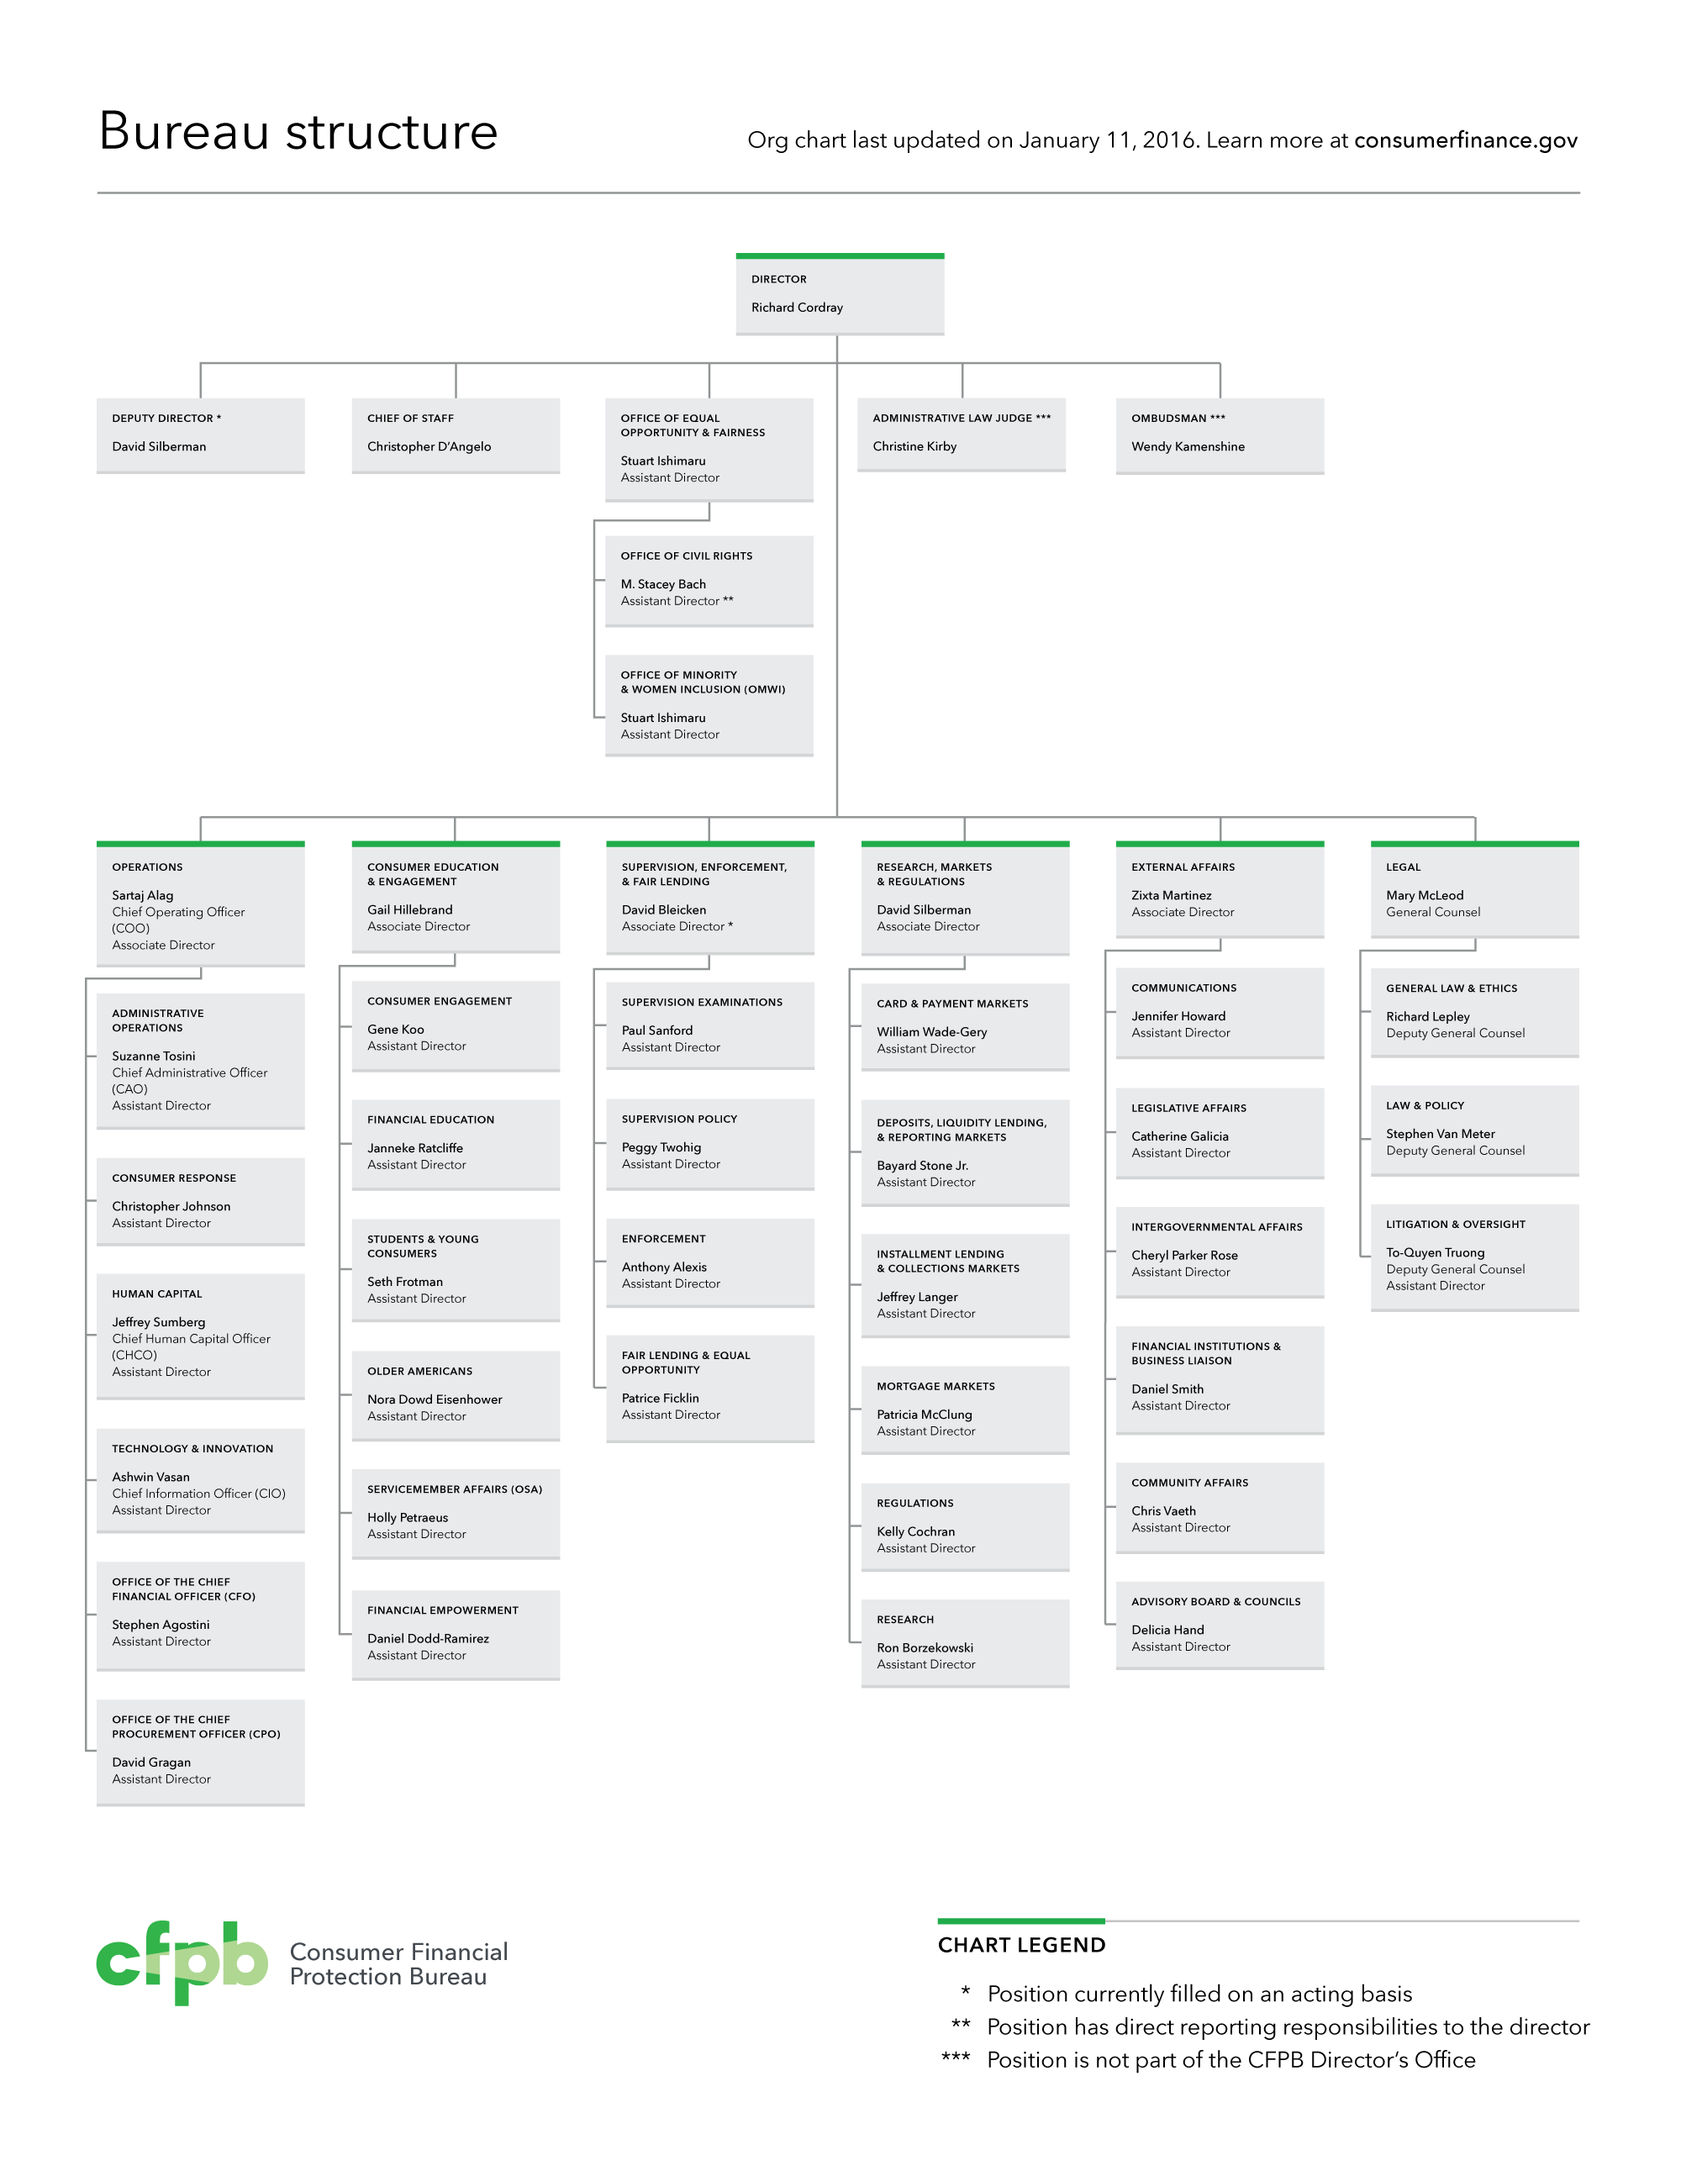
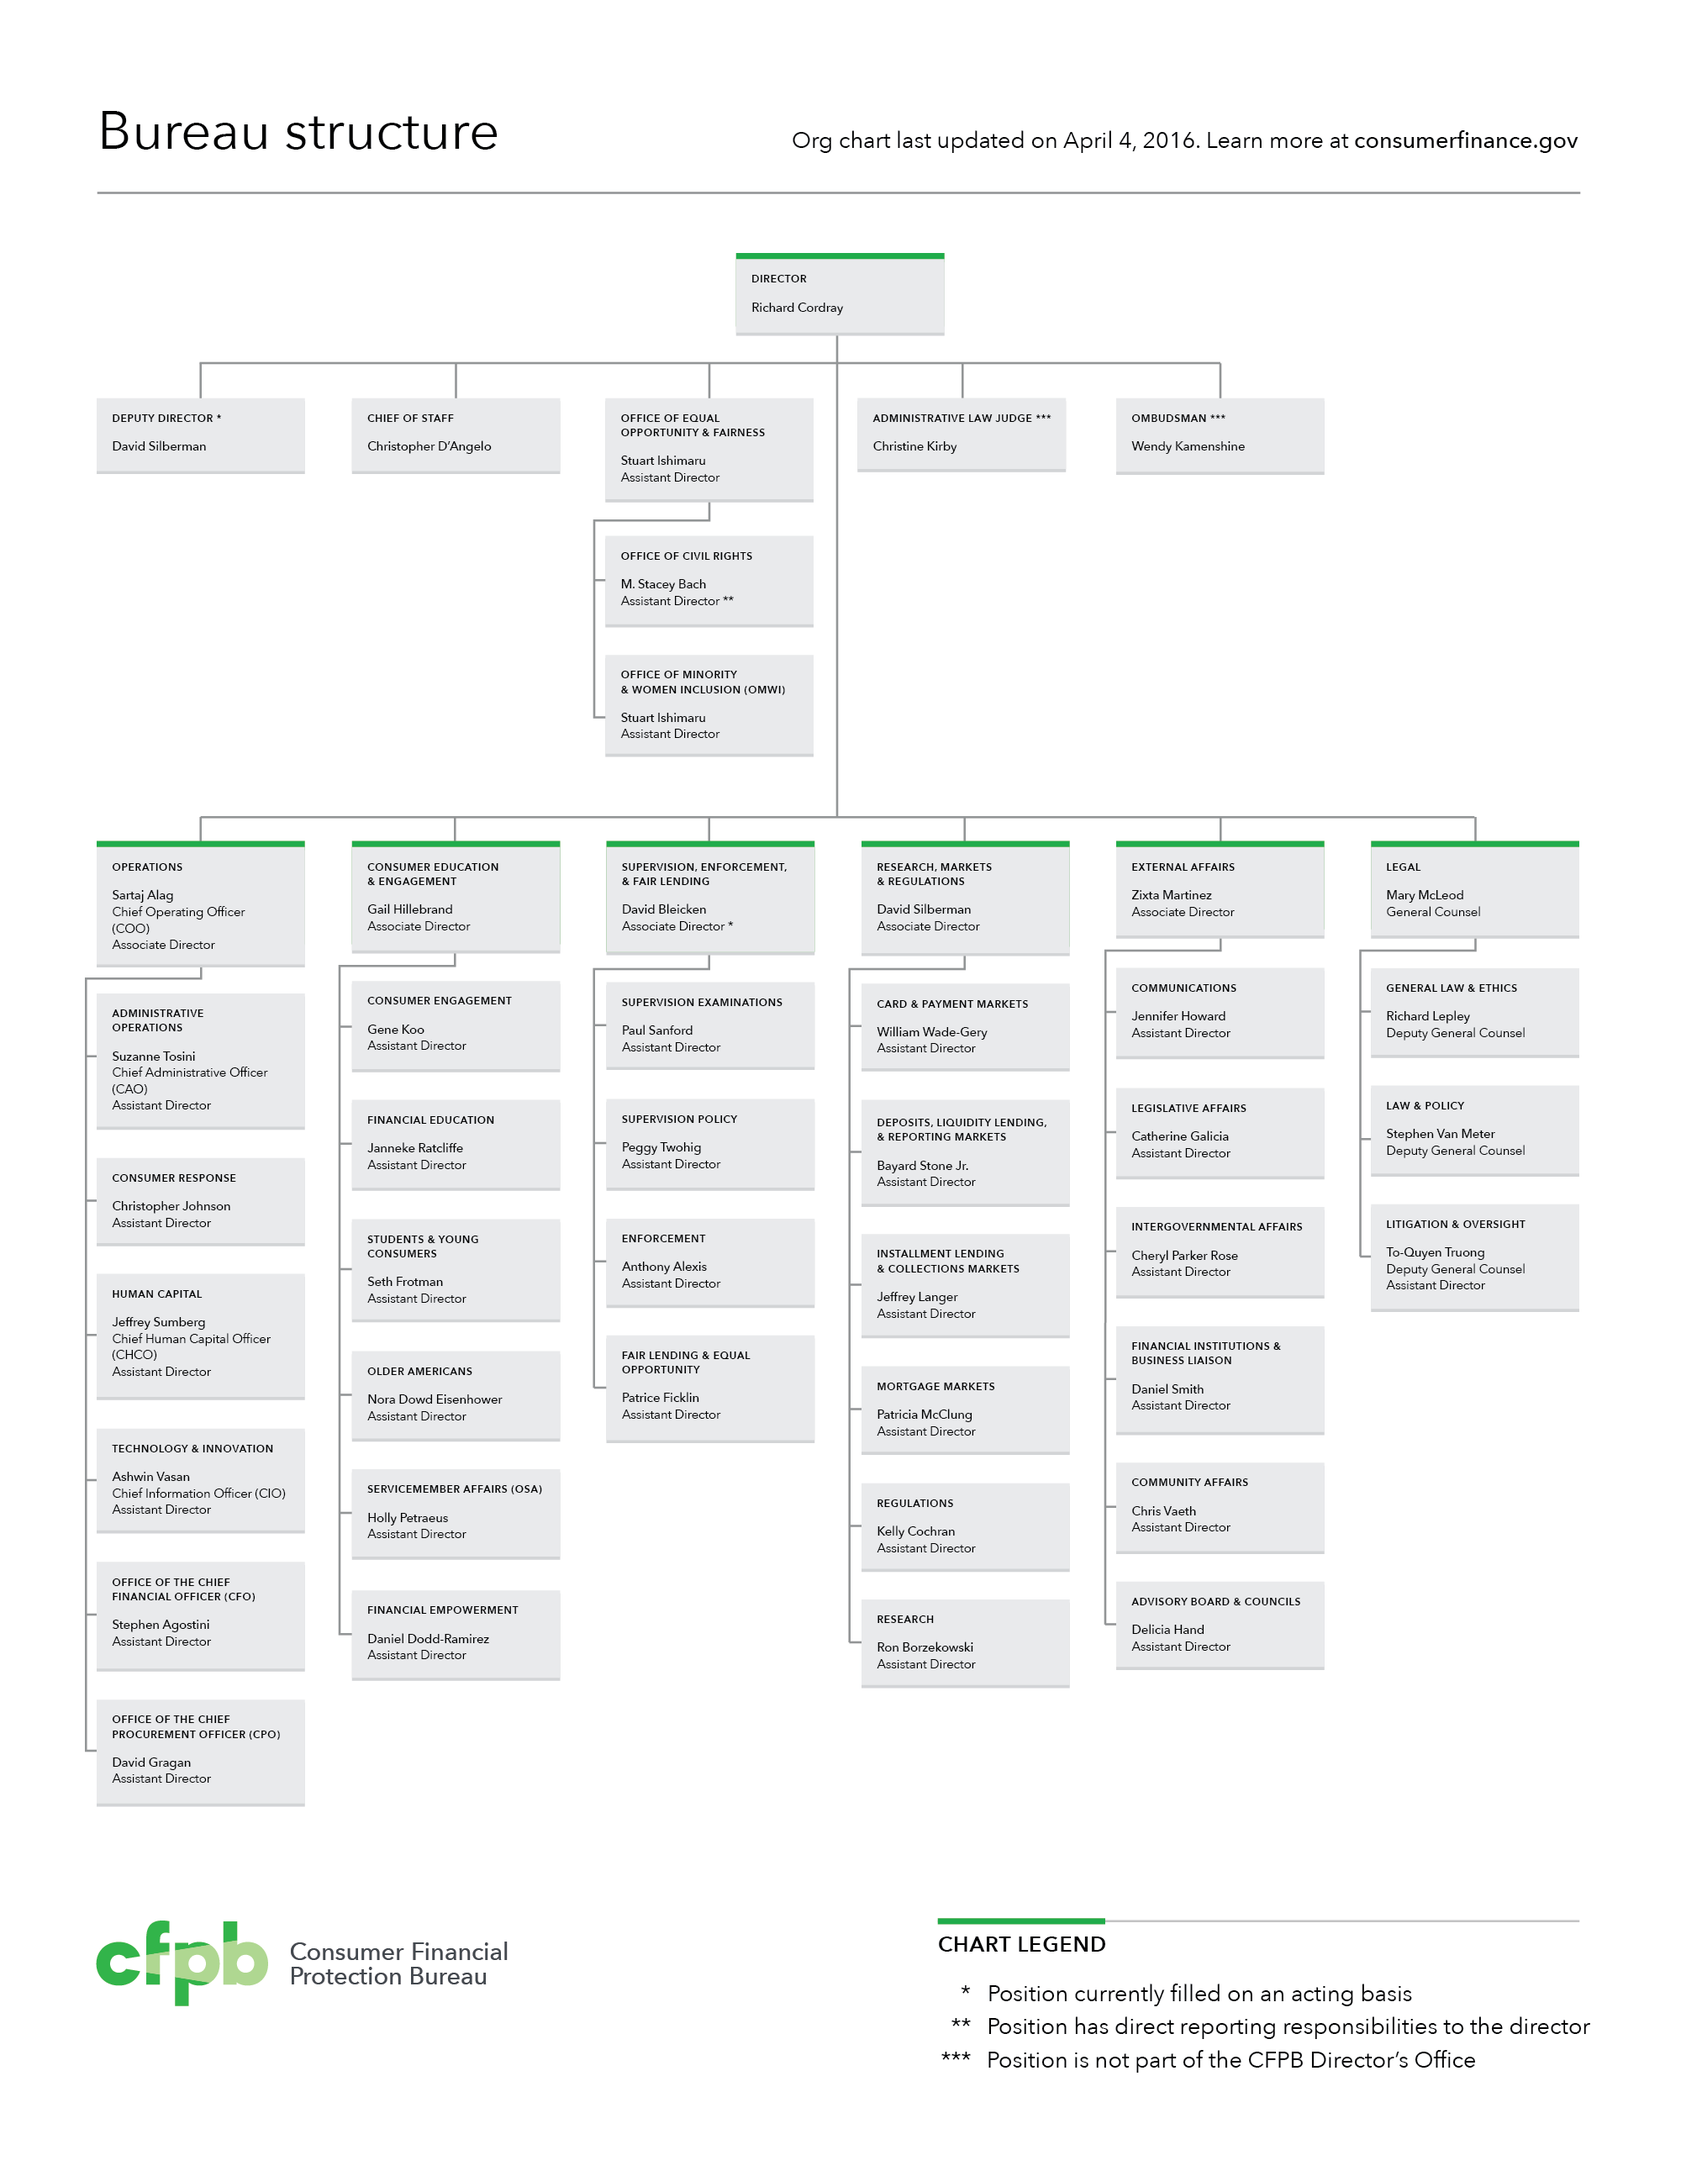
Bureau Structure Updates (#1925)
- Removes the * from Christopher Johnson as he is no longer acting
- Removes the lines between offices to avoid implying a hierarchial
  relationship
- Updates Bureau Structure PNG
- Updates email address for speaking requests

diff --git a/cfgov/unprocessed/css/pages/bureau-structure.less b/cfgov/unprocessed/css/pages/bureau-structure.less
@@ -257,24 +257,11 @@
         }
     }
 
-    &:not(:last-child):after {
-        content: '';
-        position: absolute;
-        left: 50%;
-        bottom: -(@grid_gutter-width / 2 + @node-border-width);
-        width: 0;
-        height: @grid_gutter-width / 2;
-        border-left: @spine-width solid @spine-color;
-    }
-
     .respond-to-max( @bp-xs-max, {
         &:not(:first-child) {
             margin: @margin / 2;
         }
 
-        &:nth-last-child(2):after {
-            border: none;
-        }
     } );
 }
 

diff --git a/cfgov/jinja2/v1/about-us/the-bureau/bureau-structure/_footer.html b/cfgov/jinja2/v1/about-us/the-bureau/bureau-structure/_footer.html
@@ -25,8 +25,9 @@
             </p>
             <span class="cf-icon cf-icon-email list_icon"></span>
             <span class="list_text">
-                <a class="list_link" href="mailto:cfpb.events@cfpb.gov">
-                    cfpb.events@cfpb.gov
+                <a class="list_link"
+                   href="mailto:invitations2cfpb@consumerfinance.gov">
+                    invitations2cfpb@consumerfinance.gov
                 </a>
             </span>
         </div>

diff --git a/cfgov/jinja2/v1/about-us/the-bureau/bureau-structure/_vars-division-data.html b/cfgov/jinja2/v1/about-us/the-bureau/bureau-structure/_vars-division-data.html
@@ -10,7 +10,7 @@
         'name':   'Suzanne Tosini',
         'title':  'Administrative Operations'
         }, {
-        'titles': ['Assistant Director<sup>*</sup>'],
+        'titles': ['Assistant Director'],
         'slug':   'office-of-consumer-response',
         'name':   'Christopher Johnson',
         'title':  'Consumer Response'
